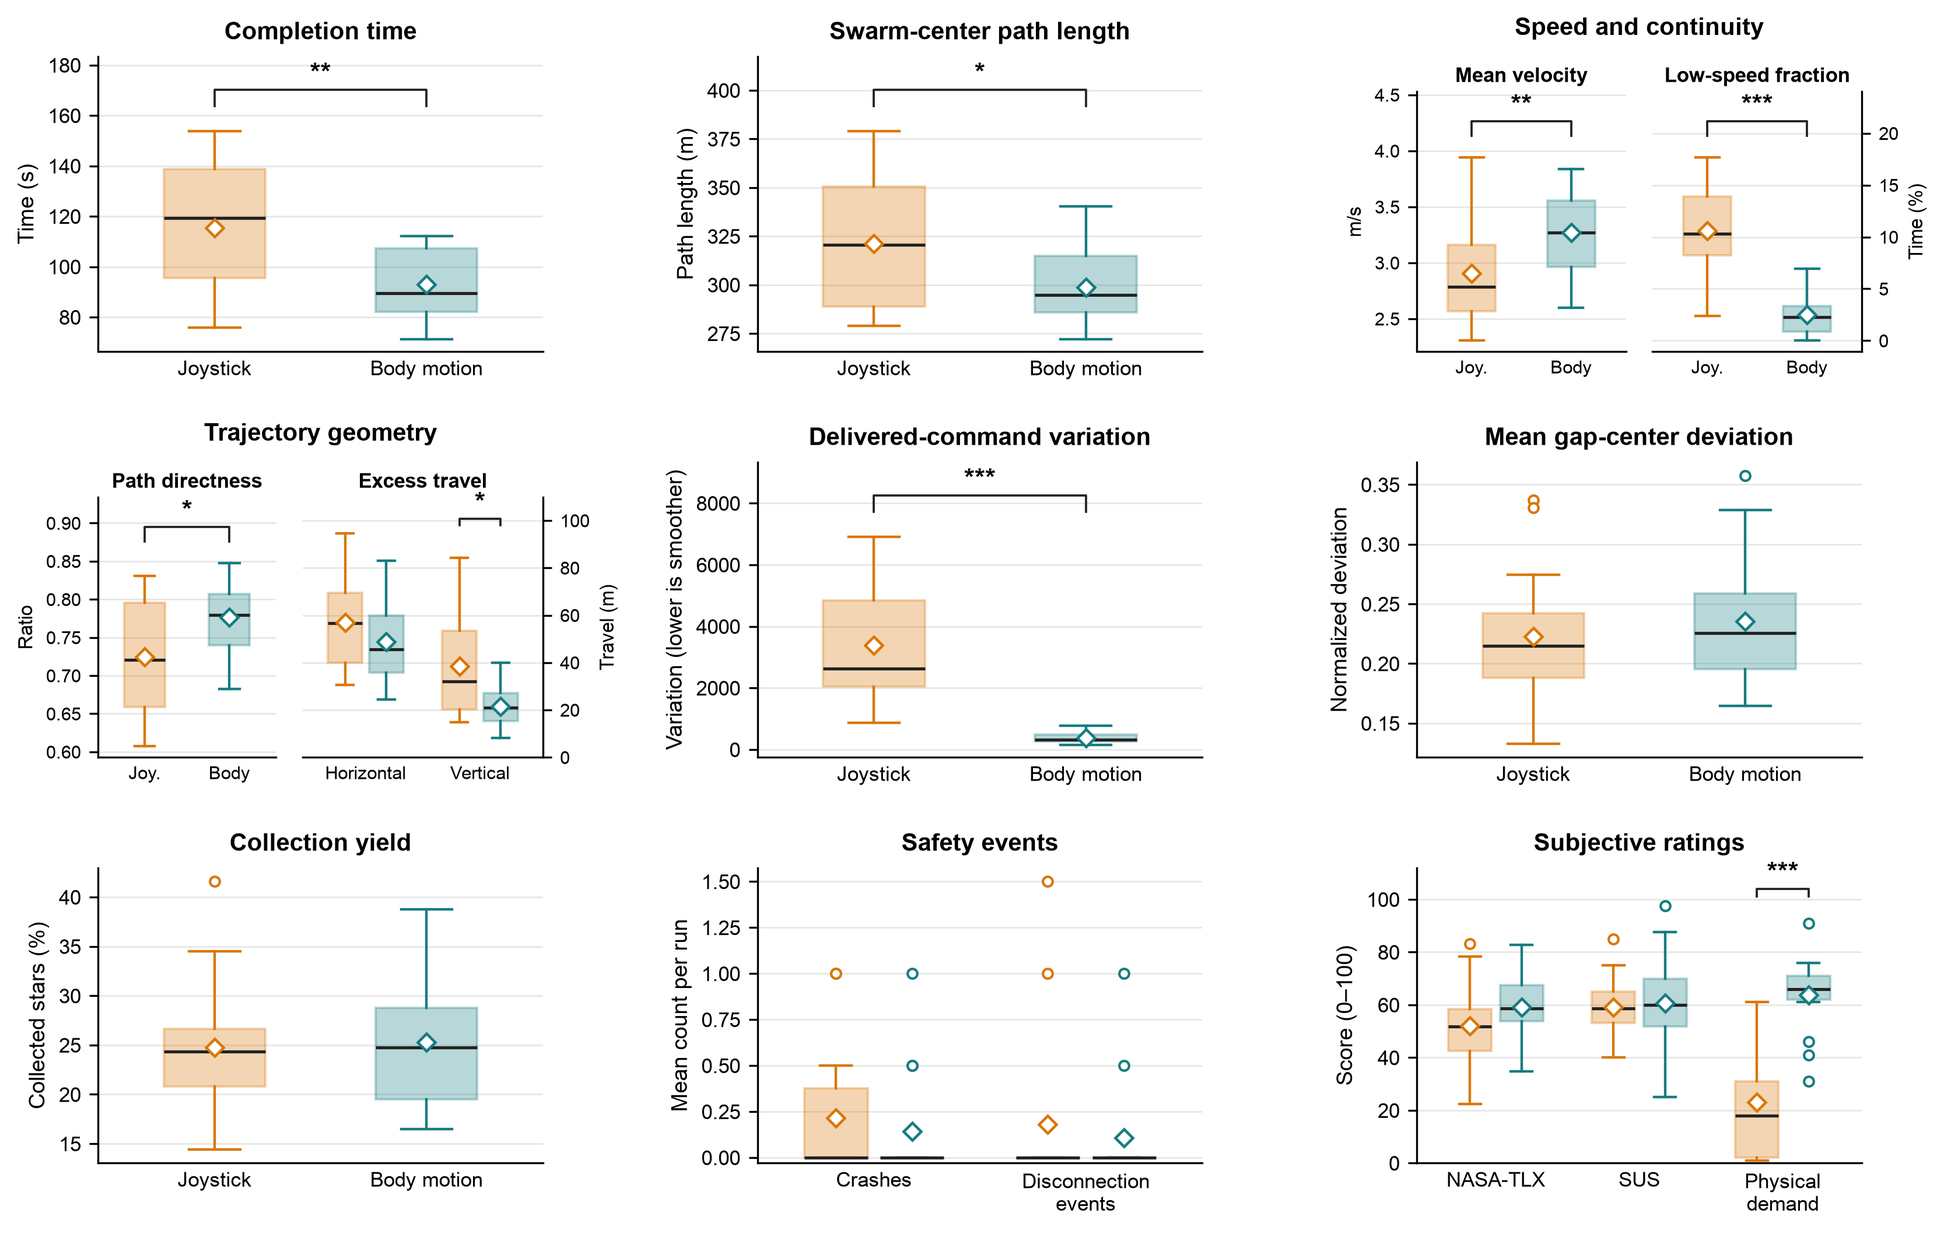
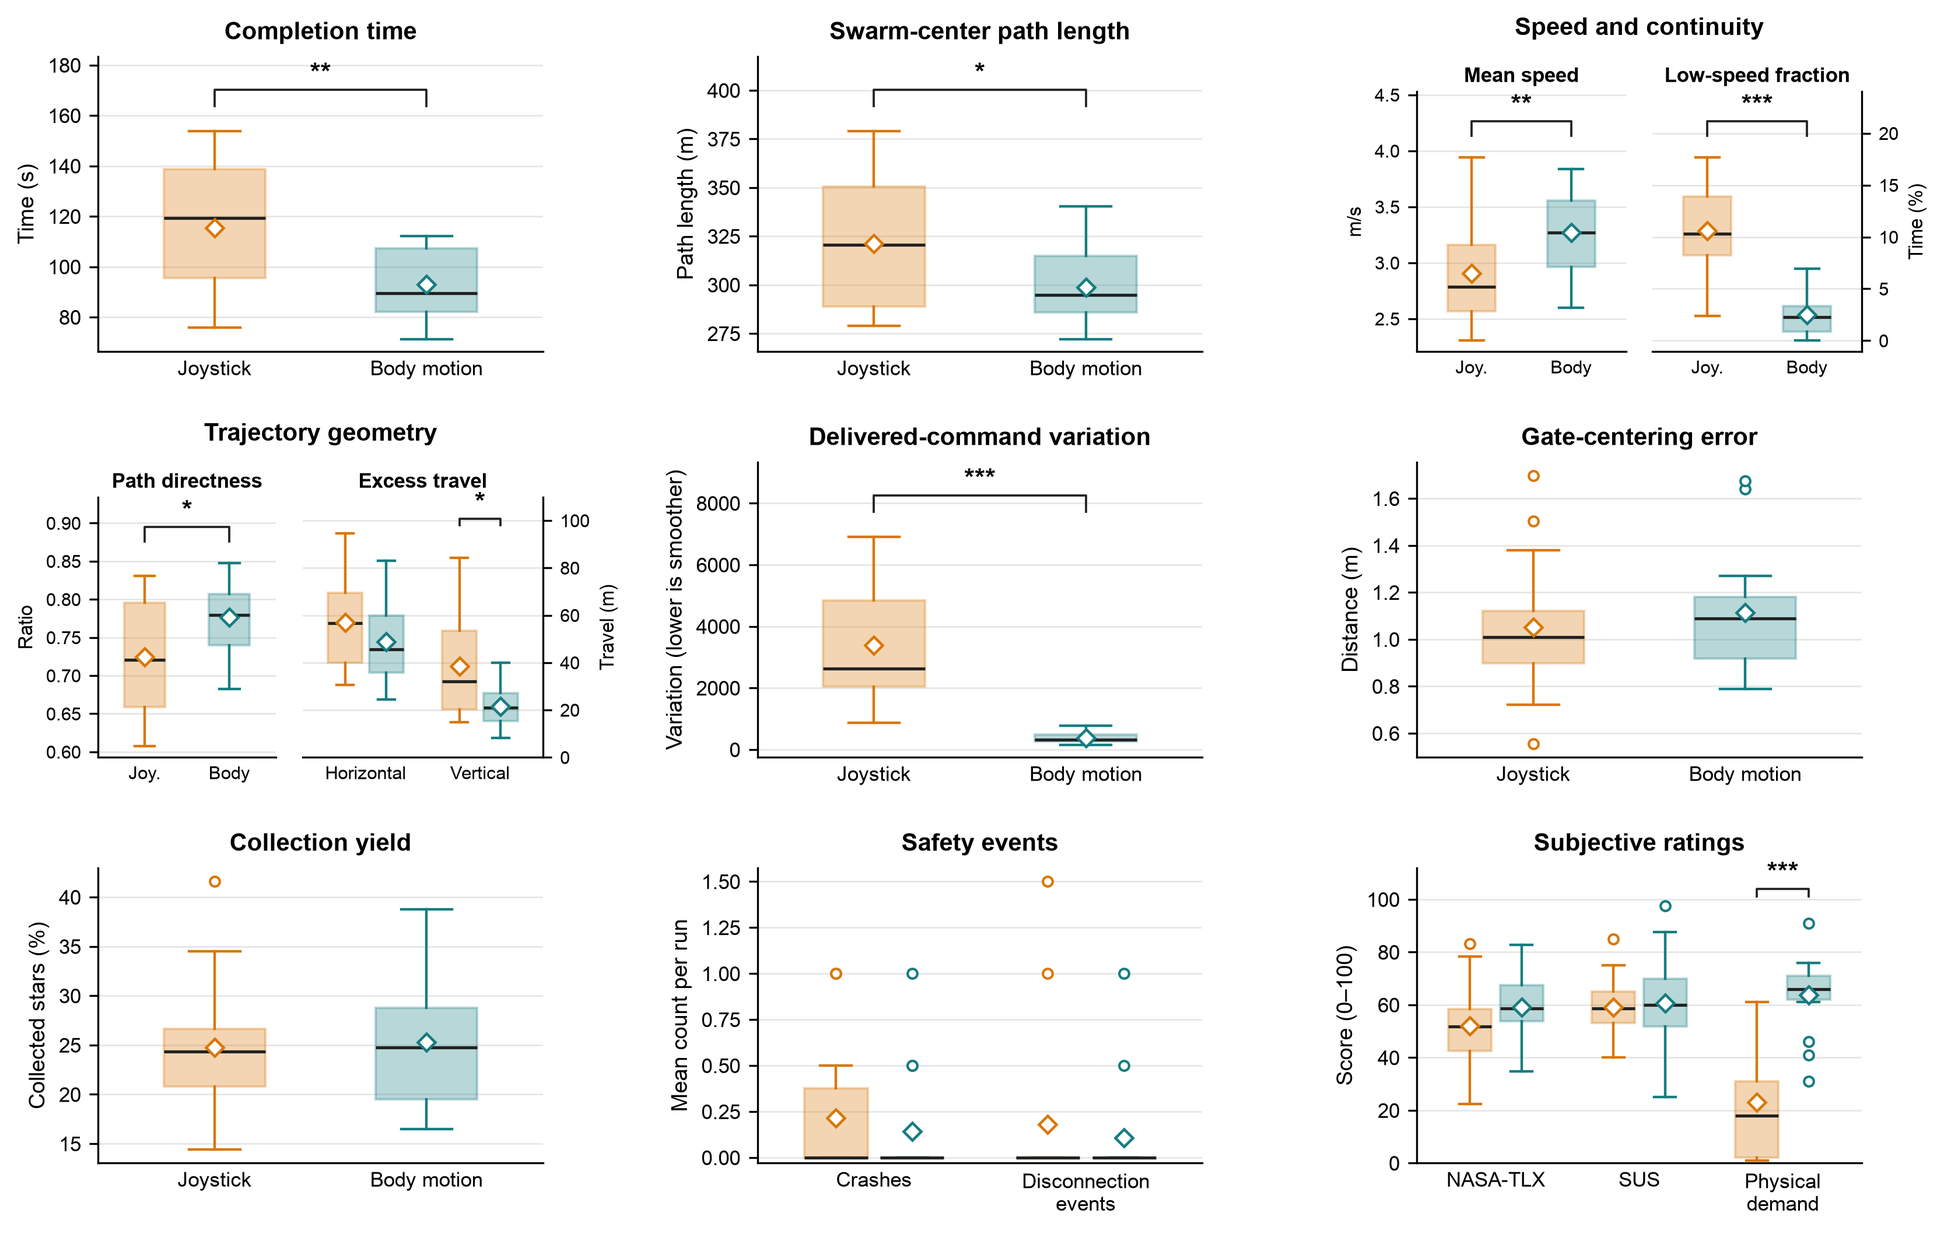
Yang corrections

diff --git a/main.tex b/main.tex
@@ -20,18 +20,39 @@
 \title{\LARGE \bf
 Body-Motion Control of a Simulated Aerial Swarm from a First-Person View}
 
+% \author{
+% \authorblockN{
+% Yang Chen,
+% Darius Giannoli, and
+% Dario Floreano,
+% \IEEEmembership{Fellow, IEEE}
+% }
+% \thanks{All authors are with the Laboratory of Intelligent Systems,
+% \'{E}cole polytechnique f\'{e}d\'{e}rale de Lausanne (EPFL),
+% Lausanne, Switzerland.}%
+% \thanks{Correspondance: \texttt{chenyang@ai.iit.tsukuba.ac.jp},
+% \{\texttt{{darius.giannoli, dario.floreano}\}@epfl.ch}.}%
+% \thanks{Videos are available in the
+% \protect\href{https://www.youtube.com/playlist?list=PLTn4QPxGFMEU}
+% {online video playlist}.}%
+% \thanks{This work was supported by the Swiss National Science Foundation
+% under Grant 200020\_212077.}%
+% \thanks{This study involving human participants was approved by the EPFL
+% Human Research Ethics Committee under Application No.\ HREC 092-2023.}%
+% }
+
 \author{
 \authorblockN{
-Yang Chen,
-Darius Giannoli, and
+Yang Chen$^{\dagger}$,
+Darius Giannoli$^{\dagger}$, and
 Dario Floreano,
 \IEEEmembership{Fellow, IEEE}
 }
+\thanks{$^{\dagger}$Y. Chen and D. Giannoli contributed equally to this work.}%
 \thanks{All authors are with the Laboratory of Intelligent Systems,
 \'{E}cole polytechnique f\'{e}d\'{e}rale de Lausanne (EPFL),
-Lausanne, Switzerland.}%
-\thanks{Correspondance: \texttt{chenyang@ai.iit.tsukuba.ac.jp},
-\{\texttt{{darius.giannoli, dario.floreano}\}@epfl.ch}.}%
+Lausanne, Switzerland (e-mail: chenyang@ai.iit.tsukuba.ac.jp;
+darius.giannoli@epfl.ch; dario.floreano@epfl.ch).}%
 \thanks{Videos are available in the
 \protect\href{https://www.youtube.com/playlist?list=PLTn4QPxGFMEU}
 {online video playlist}.}%
@@ -260,7 +281,7 @@ All parameters were selected through pilot and informal testing.
 
 \begin{figure*}[!t]
 \centering
-\includegraphics[width=\textwidth]{Figures/t1.png}
+\includegraphics[width=\textwidth]{Figures/fig2_control_mapping_v2.png}
 \caption{Body-to-swarm control mappings. Subfigures (a)--(e) illustrate how the participant's posture and hand positions map to specific swarm commands. The neutral pose (f) halts all movement but maintains the current spacing setpoint. Faded formations indicate the direction of the commanded motion, scaling, or view rotation.}
 \label{fig:mapping}
 \end{figure*}
@@ -285,7 +306,7 @@ Table~\ref{tab:calibration_summary} summarizes the resulting spans; angular
 spans combine opposing excursions, whereas position spans are
 maximum--minimum differences.
 
-\begin{table}[!tb]
+\begin{table}[!t]
 \centering
 \caption{Calibrated input spans across participants ($N=14$).}
 \label{tab:calibration_summary}
@@ -441,7 +462,7 @@ Figure 4 shows the statistical distributions for all evaluated performance and s
 \centering
 \includegraphics[width=\textwidth]{Figures/box.png}
 \caption{Participant-level outcomes for joystick and body-motion control
-($n=14$). Command variation is shown for the recorded pipelines and
+($n=14$). Command variation is shown for the recorded pipelines.
 Boxes show interquartile ranges with median lines; diamonds indicate means
 and circles indicate outliers. Orange denotes joystick and teal denotes body
 motion. Stars mark Holm-adjusted paired comparisons
@@ -458,7 +479,7 @@ decreased by 8.1 percentage points (
 Holm-adjusted $p<0.001$). Path directness increased by 0.052
 (Holm-adjusted $p=0.032$). Excess vertical
 travel decreased by 44.0\%, corresponding to 16.9~m
-(Holm-adjusted $p=0.049$) while xcess horizontal
+(Holm-adjusted $p=0.049$) while excess horizontal
 travel was 14.2\% lower with body motion (48.8 versus 56.8~m), but the
 difference was not statistically detectable (mean difference $-8.0$~m,
 Holm-adjusted $p=0.153$).
@@ -468,15 +489,12 @@ characteristics.
 \begin{figure}[!b]
 \centering
 \includegraphics[width=\columnwidth]
-{Figures/2.png}
-\caption{Course~2 centroid trajectories: (a) horizontal paths and
-(b) gate-aligned heights, contextualizing horizontal and vertical excess
-travel, respectively. Thin curves show individual runs, thick curves show
-interface medians, and dashed lines mark mean run-wise maximum height.}
+{Figures/a.png}
+\caption{Course 2 individual-drone trajectories for one participant: (a) horizontal paths and (b) gate-aligned height profiles under transmitter and body-motion control. Thin lines show the trajectories of the non-focal drones, while thick lines highlight the focal drone. Black markers indicate gate locations and vertical opening ranges.}
 \label{fig:trajectory_overlays}
 \end{figure}
 
-\emph{Delivered-command behavior.} Body motion produced significantly smoother commands than the transmitter. Delivered-command variation decreased by 88.8\%, representing a mean reduction of 3010 ($p<0.001$).
+\emph{Delivered-command behavior.} Body motion produced significantly smoother commands than the transmitter. Delivered-command variation decreased by 88.8\% ($p<0.001$).
 
 \emph{Task performance and swarm integrity.} No differences were detected in gate-centering error, collection yield, crash count, or disconnection-event count (Holm-adjusted \(p=1.000\) for all four outcomes). While almost all agents survived in both conditions, this lack of a significant difference does not inherently prove that the interfaces are completely equivalent in overall performance or safety.
 
@@ -486,46 +504,99 @@ interface medians, and dashed lines mark mean run-wise maximum height.}
 % =====================================================================
 \section{Discussion}
 
-Body-motion control substantially improved traversal efficiency in the tested
-FPV swarm-navigation task. Participants completed the courses 19.4\% faster,
-with 13 of 14 participants showing the same direction of improvement. Their
-centroid paths were 7.0\% shorter and their mean speed was 12.5\% higher.
-Trajectory analysis further showed less time at low speed, greater path
-directness, and 44.0\% less excess vertical travel. Although mean excess
-horizontal travel was 14.2\% lower with body motion, this difference was not
-statistically detectable. The evidence therefore supports more continuous and
-direct traversal, with a clear reduction in unnecessary vertical movement but
-no conclusive reduction in horizontal detouring.
+% Body-motion control substantially improved traversal efficiency in the tested
+% FPV swarm-navigation task. Participants completed the courses 19.4\% faster,
+% with 13 of 14 participants showing the same direction of improvement. Their
+% centroid paths were 7.0\% shorter and their mean speed was 12.5\% higher.
+% Trajectory analysis further showed less time at low speed, greater path
+% directness, and 44.0\% less excess vertical travel. Although mean excess
+% horizontal travel was 14.2\% lower with body motion, this difference was not
+% statistically detectable. The evidence therefore supports more continuous and
+% direct traversal, with a clear reduction in unnecessary vertical movement but
+% no conclusive reduction in horizontal detouring.
 
-Importantly, the efficiency advantage was not accompanied by a detected loss of task accuracy or swarm integrity. Gate-centering error, collection yield, and swarm survival did not differ detectably between interfaces, and survival remained high in both conditions. Within the tested scenario, body motion therefore enabled participants to traverse the courses faster without an observable reduction in these task-performance measures.
+% Importantly, the efficiency advantage was not accompanied by a detected loss of task accuracy or swarm integrity. Gate-centering error, collection yield, and swarm survival did not differ detectably between interfaces, and survival remained high in both conditions. Within the tested scenario, body motion therefore enabled participants to traverse the courses faster without an observable reduction in these task-performance measures.
 
-Underlying these physical improvements, body motion produced a substantially steadier control stream. Delivered-command variation dropped by 88.8\%. This reduction in abrupt command changes likely helped sustain forward motion and decrease the need for corrective maneuvers. These steadier commands logically align with the improved low-speed fraction, higher path directness, and reduced excess vertical travel, though this study establishes a correlation rather than direct causation.
+% Underlying these physical improvements, body motion produced a substantially steadier control stream. Delivered-command variation dropped by 88.8\%. This reduction in abrupt command changes likely helped sustain forward motion and decrease the need for corrective maneuvers. These steadier commands logically align with the improved low-speed fraction, higher path directness, and reduced excess vertical travel, though this study establishes a correlation rather than direct causation.
 
-While overall usability and workload scores (SUS and TLX) were similar between interfaces, body motion required significantly more physical effort. All participants rated body motion as more physically demanding, scoring it 40.7 points higher on average due to the continuous arm and torso movements required. Interestingly, lower perceived workload on other TLX dimensions offset this physical strain, resulting in equivalent overall scores. Despite the physical exertion, user preference remained split (eight preferred body motion, five preferred the transmitter, one had no preference), and neither interface showed a clear advantage regarding motion sickness.
-To address this physical fatigue, participant feedback suggests two primary design improvements. First, integrating physical arm support, similar to prior body-based drone interfaces~\cite{rognon2018flyjacket}, could substantially reduce sustained effort. Second, increasing the shoulder-motion gains would reduce the required range of physical movement, though this must be carefully balanced against potential losses in fine control accuracy.
+% While overall usability and workload scores (SUS and TLX) were similar between interfaces, body motion required significantly more physical effort. All participants rated body motion as more physically demanding, scoring it 40.7 points higher on average due to the continuous arm and torso movements required. Interestingly, lower perceived workload on other TLX dimensions offset this physical strain, resulting in equivalent overall scores. Despite the physical exertion, user preference remained split (eight preferred body motion, five preferred the transmitter, one had no preference), and neither interface showed a clear advantage regarding motion sickness.
+% To address this physical fatigue, participant feedback suggests two primary design improvements. First, integrating physical arm support, similar to prior body-based drone interfaces~\cite{rognon2018flyjacket}, could substantially reduce sustained effort. Second, increasing the shoulder-motion gains would reduce the required range of physical movement, though this must be carefully balanced against potential losses in fine control accuracy.
 
-This study successfully extends upper-body control from individual aerial robots~\cite{rognon2018flyjacket,miehlbradt2018datadriven,macchini2024datadriven} to multi-agent swarms, and shifts the paradigm from externally viewed formations~\cite{macchini2021personalized,tsykunov2019swarmtouch,kratky2025gesture} to rear-focal FPV operation. Furthermore, it builds upon existing transmitter-based FPV systems~\cite{ben_focaldrone} by demonstrating the viability of body motion as a highly effective alternative input method.
+% This study successfully extends upper-body control from individual aerial robots~\cite{rognon2018flyjacket,miehlbradt2018datadriven,macchini2024datadriven} to multi-agent swarms, and shifts the paradigm from externally viewed formations~\cite{macchini2021personalized,tsykunov2019swarmtouch,kratky2025gesture} to rear-focal FPV operation. Furthermore, it builds upon existing transmitter-based FPV systems~\cite{ben_focaldrone} by demonstrating the viability of body motion as a highly effective alternative input method.
 
-These findings extend upper-body control from individual aerial robots
-\cite{rognon2018flyjacket,miehlbradt2018datadriven,
-macchini2024datadriven} and externally viewed formations
-\cite{macchini2021personalized,tsykunov2019swarmtouch,
-kratky2025gesture} to continuous five-DOF swarm control from rear-focal FPV.
-They also complement transmitter-based FPV swarm
-control~\cite{ben_focaldrone} by demonstrating that a
-participant-calibrated body-motion interface can provide a meaningful
-performance advantage in a multidimensional navigation task.
+% These findings extend upper-body control from individual aerial robots
+% \cite{rognon2018flyjacket,miehlbradt2018datadriven,
+% macchini2024datadriven} and externally viewed formations
+% \cite{macchini2021personalized,tsykunov2019swarmtouch,
+% kratky2025gesture} to continuous five-DOF swarm control from rear-focal FPV.
+% They also complement transmitter-based FPV swarm
+% control~\cite{ben_focaldrone} by demonstrating that a
+% participant-calibrated body-motion interface can provide a meaningful
+% performance advantage in a multidimensional navigation task.
 
-To build upon these foundational results, future research should incorporate larger participant pools, extended training periods, and more complex operational constraints, such as time-limited navigation, dynamic obstacles, or competing objectives. Finally, validating this interface with physical robotic swarms is essential to rigorously evaluate the impacts of communication latency, aerodynamic disturbances, and real-world safety limitations.
+% To build upon these foundational results, future research should incorporate larger participant pools, extended training periods, and more complex operational constraints, such as time-limited navigation, dynamic obstacles, or competing objectives. Finally, validating this interface with physical robotic swarms is essential to rigorously evaluate the impacts of communication latency, aerodynamic disturbances, and real-world safety limitations.
 
+Body motion improved traversal efficiency and path directness in the tested FPV
+swarm-navigation task, with the trajectory improvement concentrated in the
+vertical rather than the horizontal dimension. Two observations point to why.
+First, in post-trial comments, several participants reported that they could
+adjust multiple command dimensions simultaneously with body motion, whereas the transmitter required them to move between sticks; this is consistent with the distinction between integral and separable input~\cite{jacob1994integrality,zhai1998quantifying}. Second, body motion
+reduced delivered-command variation, and fewer abrupt command changes sustain
+forward motion and reduce the need for corrective maneuvers. These accounts are
+consistent with the measured outcomes, though this study establishes a
+correlation rather than direct causation.
+
+We did not quantify concurrency with a multi-DOF coordination index. Several
+participants reported that leaning the torso forward lowered the hands
+involuntarily, which changed the altitude command and required a subsequent
+correction, although they also reported adapting to this coupling quickly. Such
+mechanical cross-coupling between torso and arm postures nevertheless raises any
+coordination index without reflecting intentional concurrent control, so a
+higher value would not indicate a more effective interface. Decoupling these
+channels, for example through physical arm
+support~\cite{rognon2018flyjacket} or by referencing hand height to the torso
+rather than to the world, would remove the need for this compensation.
+
+The efficiency advantage was not accompanied by a detected loss of task accuracy
+or swarm integrity: gate-centering error, collection yield, crash count, and
+disconnection events did not differ between interfaces. However, the absence of
+a detected difference does not establish equivalence.
+
+Body motion required more physical effort, yet overall workload was unchanged:
+all 14 participants rated it more physically demanding, while lower ratings on
+the remaining TLX dimensions offset this strain. Preference nevertheless
+remained split, which indicates that acceptance is not determined by efficiency
+alone and that the added physical demand offsets the efficiency gain for some
+operators. Beyond decoupling the torso and arm channels, increasing the
+shoulder-motion gains would reduce the required range of physical movement, at
+the cost of fine control accuracy.
+
+These findings extend upper-body control from individual aerial
+robots~\cite{rognon2018flyjacket,miehlbradt2018datadriven,macchini2024datadriven}
+and externally viewed
+formations~\cite{macchini2021personalized,tsykunov2019swarmtouch,kratky2025gesture}
+to continuous five-DOF swarm control from a rear-focal FPV, and complement
+transmitter-based FPV swarm control~\cite{ben_focaldrone}. The swarm was
+simulated, so communication latency, aerodynamic disturbances, and real-world
+safety limits were absent; validation on physical swarms is therefore necessary.
 % =====================================================================
 \section{Conclusion}
 
 
-We presented a participant-calibrated upper-body interface for continuous five-DOF FPV swarm teleoperation. In a 14-participant within-subject study, the complete body-motion system reduced completion time by 19.4\% relative to a
-transmitter, with 7.0\% shorter paths, higher mean speed, and lower
-delivered-command variation. However, physical demand increased, while no differences were detected in task accuracy, swarm integrity, total workload, or usability; these null results do not establish equivalence. Matched-processing and physical-swarm studies are needed to isolate modality effects and determine whether the efficiency advantage generalizes beyond the tested simulated 15-agent rear-FPV task.
+% We presented a participant-calibrated upper-body interface for continuous five-DOF FPV swarm teleoperation. In a 14-participant within-subject study, the complete body-motion system reduced completion time by 19.4\% relative to a
+% transmitter, with 7.0\% shorter paths, higher mean speed, and lower
+% delivered-command variation. However, physical demand increased, while no differences were detected in task accuracy, swarm integrity, total workload, or usability; these null results do not establish equivalence. Matched-processing and physical-swarm studies are needed to isolate modality effects and determine whether the efficiency advantage generalizes beyond the tested simulated 15-agent rear-FPV task.
 
+We presented a participant-calibrated upper-body interface for continuous
+five-DOF FPV swarm teleoperation. In a 14-participant within-subject study,
+body motion reduced completion time by 19.4\% relative to a transmitter and
+produced more direct trajectories with lower delivered-command variation, at the
+cost of higher physical demand and with no detected differences in task
+accuracy, swarm integrity, total workload, or usability. Validation on physical
+swarms remains necessary. For first-person-view swarm teleoperation, these
+results support distributing the command dimensions that vary together across
+separate body segments rather than across controls on a single handheld device. They also suggest that referencing hand height to the torso rather than to the
+world would reduce the postural coupling that participants reported.
 
 % =====================================================================
 \bibliographystyle{IEEEtran}
